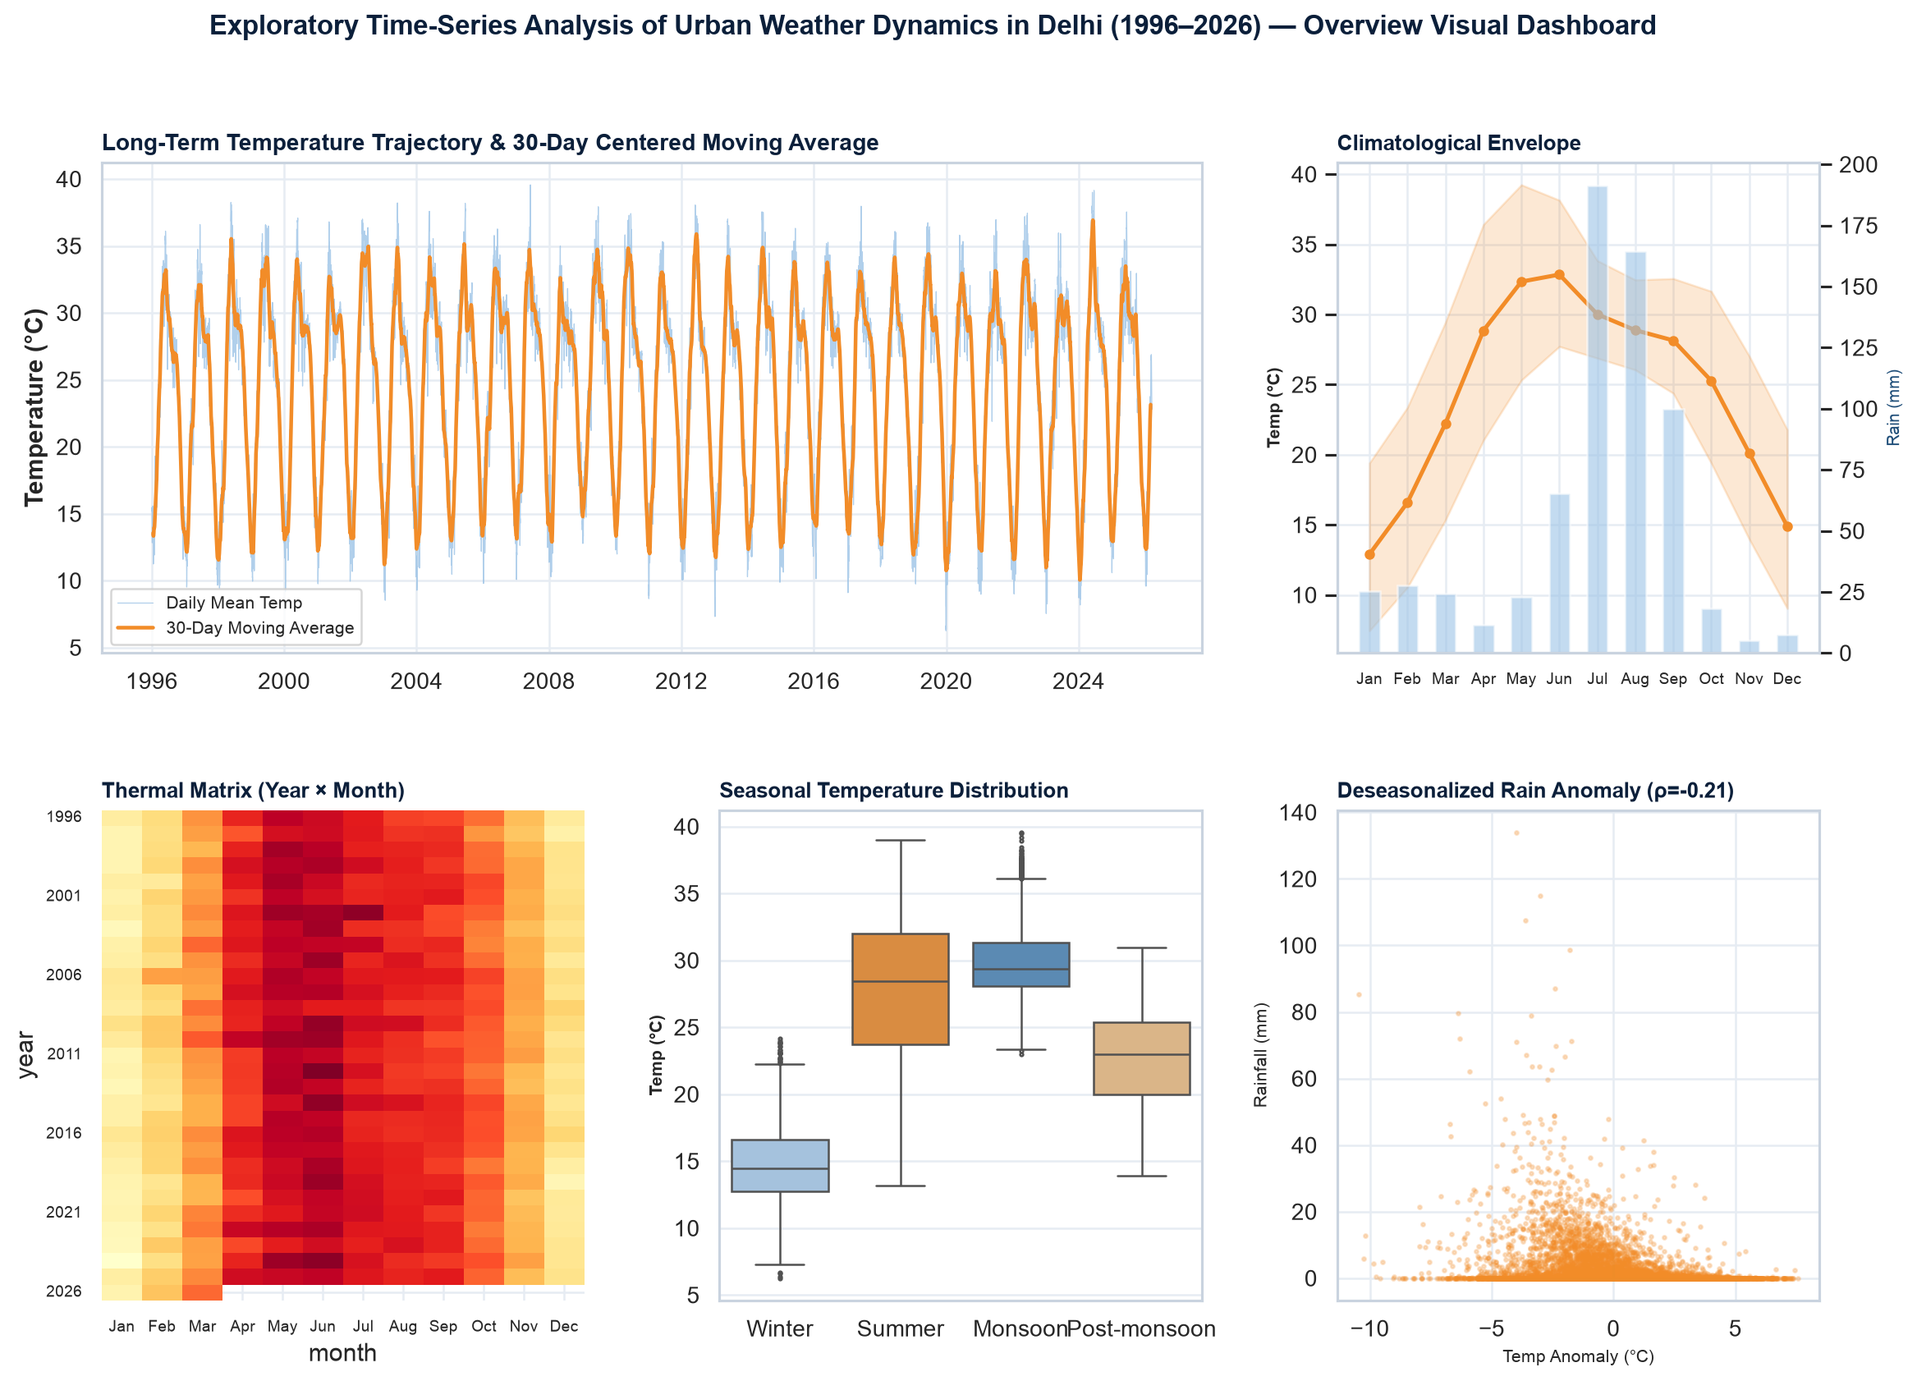
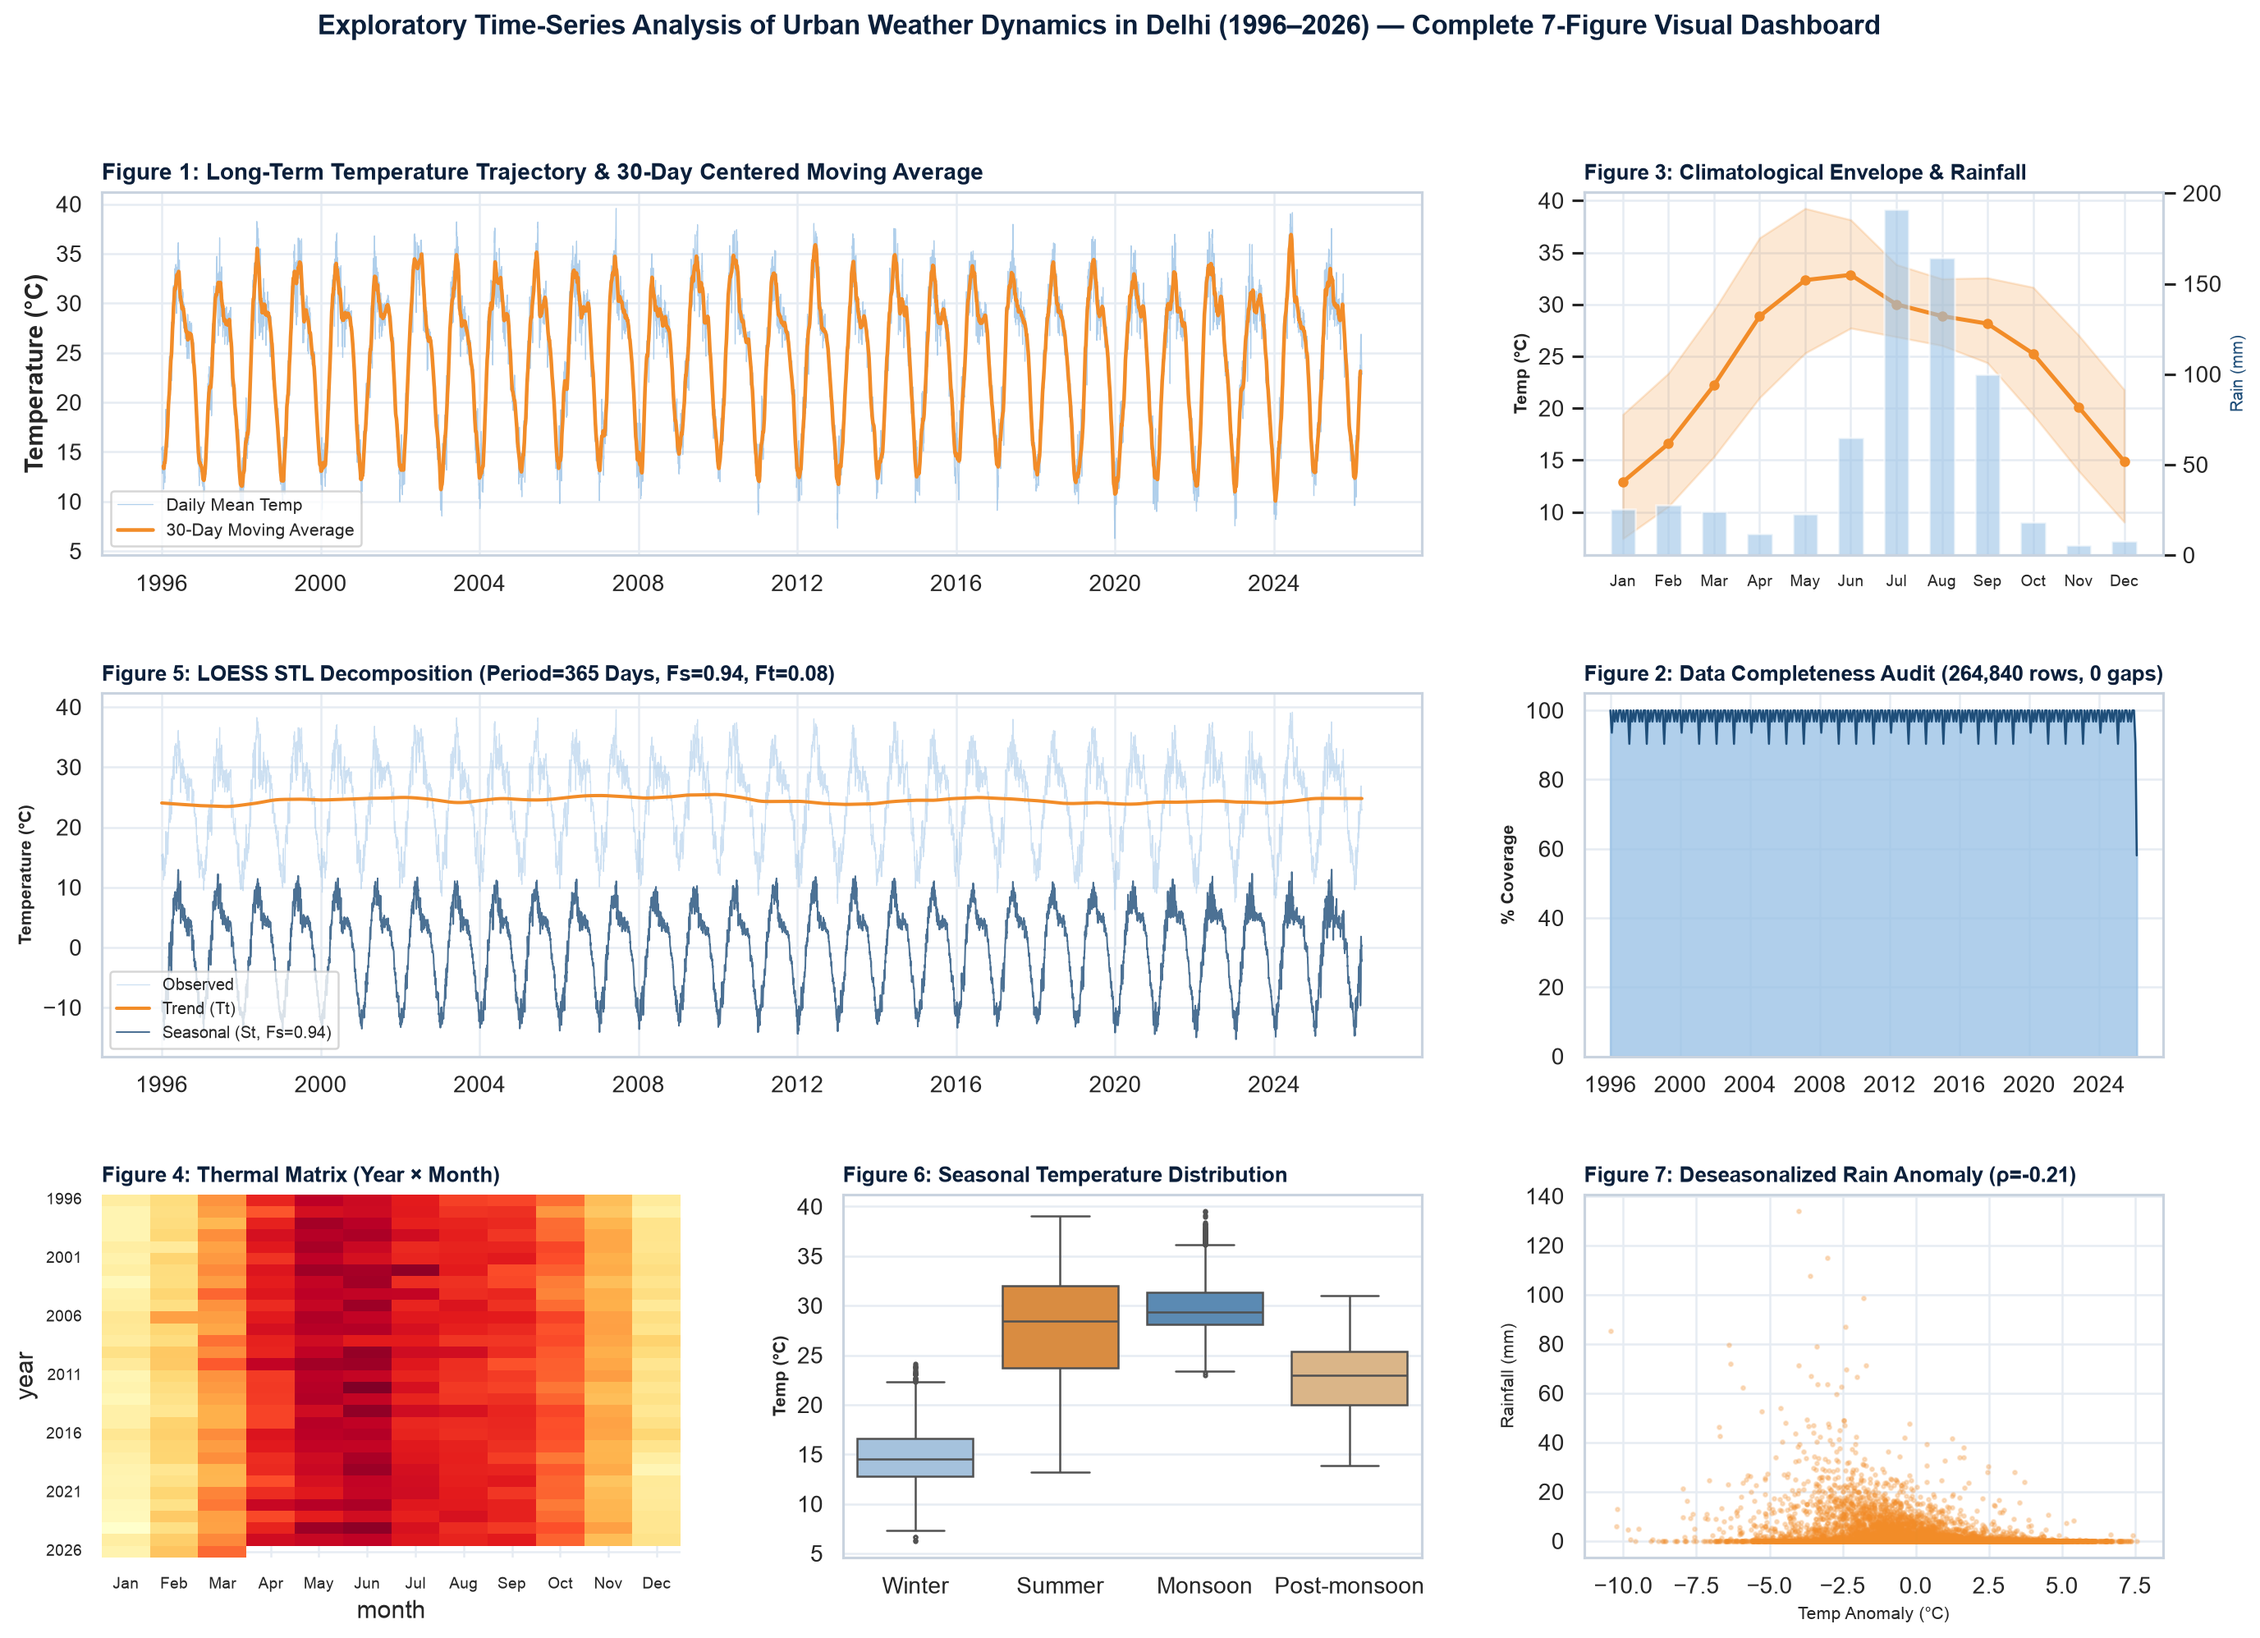
fix: update overview dashboard to include all 7 numbered exploratory figures

diff --git a/milestone1_pipeline.py b/milestone1_pipeline.py
@@ -346,19 +346,19 @@ if rain_col:
     FIGS["scatter"] = export_plot(fig7, "07_temp_vs_rain.png")
     print("      ✓ Figure 7: 07_temp_vs_rain.png")
 
-# 4.8 Combined Multi-Panel Overview Dashboard (All-in-One Graph Output)
-fig_dash = plt.figure(figsize=(15, 10))
-gs = fig_dash.add_gridspec(2, 3, hspace=0.32, wspace=0.28)
+# 4.8 Combined Multi-Panel Overview Dashboard (All 7 Figures in One View)
+fig_dash = plt.figure(figsize=(18, 12))
+gs = fig_dash.add_gridspec(3, 3, hspace=0.38, wspace=0.28)
 
-# Panel 1: Trend & MA
+# Figure 1: Trend & Moving Average
 ax_d1 = fig_dash.add_subplot(gs[0, :2])
 ax_d1.plot(daily.index, daily["tmean"], color=c_light, lw=0.5, alpha=0.8, label="Daily Mean Temp")
 ax_d1.plot(daily.index, daily["tmean"].rolling(30, center=True).mean(), color=c_or, lw=1.8, label="30-Day Moving Average")
 ax_d1.set_ylabel("Temperature (°C)", fontweight="bold")
-ax_d1.set_title("Long-Term Temperature Trajectory & 30-Day Centered Moving Average", fontsize=11, fontweight="bold", color=c_navy, loc="left")
+ax_d1.set_title("Figure 1: Long-Term Temperature Trajectory & 30-Day Centered Moving Average", fontsize=11, fontweight="bold", color=c_navy, loc="left")
 ax_d1.legend(loc="lower left", fontsize=8.5)
 
-# Panel 2: Seasonal Envelope
+# Figure 3: Climatological Envelope & Rain
 ax_d2 = fig_dash.add_subplot(gs[0, 2])
 if rain_col:
     ax_d2_r = ax_d2.twinx()
@@ -370,34 +370,52 @@ ax_d2.plot(range(1, 13), fp["avg"], color=c_or, lw=2.0, marker="o", markersize=4
 ax_d2.set_xticks(range(1, 13))
 ax_d2.set_xticklabels(MONTHS, fontsize=7.5)
 ax_d2.set_ylabel("Temp (°C)", fontsize=8.5, fontweight="bold")
-ax_d2.set_title("Climatological Envelope", fontsize=10.5, fontweight="bold", color=c_navy, loc="left")
+ax_d2.set_title("Figure 3: Climatological Envelope & Rainfall", fontsize=10.5, fontweight="bold", color=c_navy, loc="left")
 
-# Panel 3: Heatmap
-ax_d3 = fig_dash.add_subplot(gs[1, 0])
-sns.heatmap(thermal_matrix, cmap="YlOrRd", ax=ax_d3, cbar=False, xticklabels=MONTHS, yticklabels=5)
-ax_d3.tick_params(axis="x", labelsize=7.5)
-ax_d3.tick_params(axis="y", labelsize=7.5, rotation=0)
-ax_d3.set_title("Thermal Matrix (Year × Month)", fontsize=10.5, fontweight="bold", color=c_navy, loc="left")
+# Figure 5: STL Decomposition Components
+ax_d3 = fig_dash.add_subplot(gs[1, :2])
+ax_d3.plot(interpolated_series.index, interpolated_series.values, color=c_light, lw=0.5, alpha=0.5, label="Observed")
+ax_d3.plot(stl_decomposition.trend.index, stl_decomposition.trend.values, color=c_or, lw=1.6, label="Trend (Tt)")
+ax_d3.plot(stl_decomposition.seasonal.index, stl_decomposition.seasonal.values, color=c_mid, lw=0.8, alpha=0.8, label=f"Seasonal (St, Fs={S['Fs']:.2f})")
+ax_d3.set_ylabel("Temperature (°C)", fontsize=8.5, fontweight="bold")
+ax_d3.set_title(f"Figure 5: LOESS STL Decomposition (Period=365 Days, Fs={S['Fs']:.2f}, Ft={S['Ft']:.2f})", fontsize=10.5, fontweight="bold", color=c_navy, loc="left")
+ax_d3.legend(loc="lower left", fontsize=8)
 
-# Panel 4: Seasonal Boxplot
-ax_d4 = fig_dash.add_subplot(gs[1, 1])
-sns.boxplot(data=daily.dropna(subset=["tmean"]), x="season", y="tmean", order=SEASON_ORDER, ax=ax_d4, palette=["#9CC3E6", c_or, "#4C8BC2", "#E8B77A"], fliersize=1.5)
-ax_d4.set_ylabel("Temp (°C)", fontsize=8.5, fontweight="bold")
-ax_d4.set_xlabel("")
-ax_d4.set_title("Seasonal Temperature Distribution", fontsize=10.5, fontweight="bold", color=c_navy, loc="left")
+# Figure 2: Data Quality & Coverage Audit
+ax_d4 = fig_dash.add_subplot(gs[1, 2])
+cov_monthly = daily["n_obs"].resample("MS").sum()
+ax_d4.fill_between(cov_monthly.index, cov_monthly.values / cov_monthly.max() * 100, color=c_light, alpha=0.8)
+ax_d4.plot(cov_monthly.index, cov_monthly.values / cov_monthly.max() * 100, color=c_mid, lw=1.0)
+ax_d4.set_ylim(0, 105)
+ax_d4.set_ylabel("% Coverage", fontsize=8.5, fontweight="bold")
+ax_d4.set_title(f"Figure 2: Data Completeness Audit ({Q['raw_observations']:,} rows, 0 gaps)", fontsize=10.5, fontweight="bold", color=c_navy, loc="left")
 
-# Panel 5: Decomposition summary or Temp-Rain scatter
-ax_d5 = fig_dash.add_subplot(gs[1, 2])
+# Figure 4: Thermal Matrix Heatmap
+ax_d5 = fig_dash.add_subplot(gs[2, 0])
+sns.heatmap(thermal_matrix, cmap="YlOrRd", ax=ax_d5, cbar=False, xticklabels=MONTHS, yticklabels=5)
+ax_d5.tick_params(axis="x", labelsize=7.5)
+ax_d5.tick_params(axis="y", labelsize=7.5, rotation=0)
+ax_d5.set_title("Figure 4: Thermal Matrix (Year × Month)", fontsize=10.5, fontweight="bold", color=c_navy, loc="left")
+
+# Figure 6: Seasonal Boxplot
+ax_d6 = fig_dash.add_subplot(gs[2, 1])
+sns.boxplot(data=daily.dropna(subset=["tmean"]), x="season", y="tmean", order=SEASON_ORDER, ax=ax_d6, palette=["#9CC3E6", c_or, "#4C8BC2", "#E8B77A"], fliersize=1.5)
+ax_d6.set_ylabel("Temp (°C)", fontsize=8.5, fontweight="bold")
+ax_d6.set_xlabel("")
+ax_d6.set_title("Figure 6: Seasonal Temperature Distribution", fontsize=10.5, fontweight="bold", color=c_navy, loc="left")
+
+# Figure 7: Deseasonalized Temp vs Rain Anomaly
+ax_d7 = fig_dash.add_subplot(gs[2, 2])
 if rain_col:
-    ax_d5.scatter(clean_coupled["t_anom"], clean_coupled["rain"], s=3, alpha=0.25, color=c_or)
-    ax_d5.set_xlabel("Temp Anomaly (°C)", fontsize=8.5)
-    ax_d5.set_ylabel("Rainfall (mm)", fontsize=8.5)
-    ax_d5.set_title(f"Deseasonalized Rain Anomaly (ρ={S['rho_anom']:.2f})", fontsize=10.5, fontweight="bold", color=c_navy, loc="left")
+    ax_d7.scatter(clean_coupled["t_anom"], clean_coupled["rain"], s=3, alpha=0.25, color=c_or)
+    ax_d7.set_xlabel("Temp Anomaly (°C)", fontsize=8.5)
+    ax_d7.set_ylabel("Rainfall (mm)", fontsize=8.5)
+    ax_d7.set_title(f"Figure 7: Deseasonalized Rain Anomaly (ρ={S['rho_anom']:.2f})", fontsize=10.5, fontweight="bold", color=c_navy, loc="left")
 
-fig_dash.suptitle(f"{CONFIG['TITLE']} — Overview Visual Dashboard", fontsize=13, fontweight="bold", color=c_navy, y=0.98)
+fig_dash.suptitle(f"{CONFIG['TITLE']} — Complete 7-Figure Visual Dashboard", fontsize=13, fontweight="bold", color=c_navy, y=0.98)
 dash_path = export_plot(fig_dash, "00_overview_dashboard.png")
 FIGS["dashboard"] = dash_path
-print("      ✓ Dashboard: 00_overview_dashboard.png (Multi-Panel Visual Dashboard)")
+print("      ✓ Dashboard: 00_overview_dashboard.png (Complete 7-Figure Overview Dashboard)")
 
 # =====================================================================
 # 5. SYNOPSIS PRESENTATION BUILDER (RUBRIC-ALIGNED 12-SLIDE DECK)
